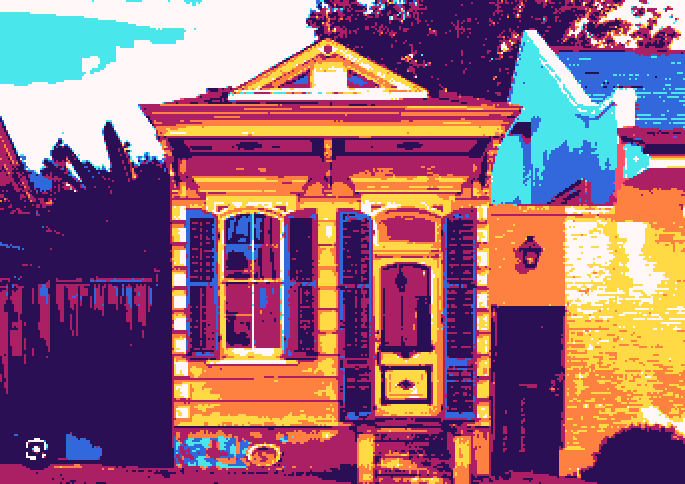
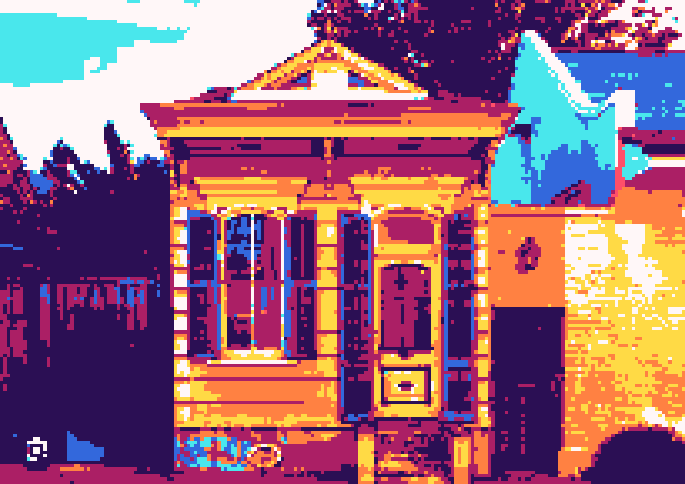
Added Title Screen

diff --git a/game.py b/game.py
@@ -21,22 +21,23 @@ FONT_PATH = r"assets/fonts/OldSchoolAdventures-42j9.ttf"
 CATEGORIES = ["Love Life", "Professional Development", "Family and Friends", "Health", "Personal Growth", "Gain Clarity"]
 
 class GameState(Enum):
-    OUTSIDE =1
-    INTRO = 2
-    SPREAD = 3
-    LOADING = 4
-    READING_INTRO = 5
-    READING_CARD_1 = 6
-    READING_CARD_2 = 7
-    READING_CARD_3 = 8
-    READING_SUMMARY = 9
+    TITLE = 1
+    OUTSIDE =2
+    INTRO = 3
+    SPREAD = 4
+    LOADING = 5
+    READING_INTRO = 6
+    READING_CARD_1 = 7
+    READING_CARD_2 = 8
+    READING_CARD_3 = 9
+    READING_SUMMARY = 10
 
 class TarotGame(arcade.Window):
     """ Main application class. """
 
     def __init__(self):
         super().__init__(SCREEN_WIDTH, SCREEN_HEIGHT, "Voodoo Tarot GPT")
-        self.stage = GameState.OUTSIDE
+        self.stage = GameState.TITLE
 
         """ Variables for reading generation"""
 
@@ -58,7 +59,7 @@ class TarotGame(arcade.Window):
         """ Global Assets """
         self.background_image = arcade.load_texture(r"assets/original/TableClothbiggerHueShift1.png")
         self.outside_image = arcade.load_texture("assets/original/NolaHouse1.7.png")
-        arcade.set_background_color(arcade.color.IMPERIAL_PURPLE)
+        arcade.set_background_color(arcade.color.BLACK)
         pyglet.font.add_file(FONT_PATH)  # Load the font file
        
         """ Variables for Outside Animation"""
@@ -135,9 +136,11 @@ class TarotGame(arcade.Window):
         """ Render the screen. """
         self.clear()
 
-        if self.stage != GameState.OUTSIDE:
+        if self.stage not in [GameState.OUTSIDE, GameState.TITLE]:
             arcade.draw_lrwh_rectangle_textured(0,0, SCREEN_WIDTH, SCREEN_HEIGHT, self.background_image)
-        if self.stage == GameState.OUTSIDE:
+        if self.stage == GameState.TITLE:
+            draw_utility.draw_title_stage(self)
+        elif self.stage == GameState.OUTSIDE:
             # arcade.draw_lrwh_rectangle_textured(0,0, SCREEN_WIDTH, SCREEN_HEIGHT, self.outside_image)
             draw_utility.draw_outside_stage(self)
         elif self.stage == GameState.INTRO:
@@ -214,6 +217,12 @@ class TarotGame(arcade.Window):
         """ Update the game state. """
 
         TEXT.update_typing_effect(self, delta_time)
+
+        if self.stage == GameState.TITLE:
+            self.time_in_state += delta_time
+            if self.time_in_state > 13:
+                self.stage = GameState.OUTSIDE
+                self.time_in_state = 0.0
         
         if self.stage == GameState.OUTSIDE:
             self.time_in_state += delta_time

diff --git a/draw_utility.py b/draw_utility.py
@@ -18,8 +18,50 @@ INTRO_TEXT = (
 
 CATEGORIES = ["Love Life", "Professional Development", "Family and Friends", "Health", "Personal Growth", "Gain Clarity"]
 
+def draw_title_stage(game):
+    dev_title = arcade.load_texture("assets\original\KandD1.png")
+    game_title = arcade.load_texture("assets/original/TitleScreen1.png")
+    
+
+    fade_duration = 1.5
+    hold_time = 4
+
+    if game.time_in_state < hold_time:
+        alpha_1 = 255  # Fully visible
+    elif hold_time <= game.time_in_state < hold_time + fade_duration:
+        alpha_1 = int(255 * (1 - (game.time_in_state - hold_time) / fade_duration))  # Fading out
+    else:
+        alpha_1 = 0  # Fully invisible
+
+    # Image 2: Game Title Screen
+    if game.time_in_state < hold_time + fade_duration:
+        alpha_2 = 0  # Not visible at first
+    elif hold_time + fade_duration <= game.time_in_state < 2 * hold_time:
+        alpha_2 = int(255 * ((game.time_in_state - (hold_time + fade_duration)) / fade_duration))  # Fading in
+    elif 2 * hold_time <= game.time_in_state < 2 * hold_time + fade_duration:
+        alpha_2 = 255  # Fully visible for hold time
+    elif 2 * hold_time + fade_duration <= game.time_in_state < 2 * hold_time + 2 * fade_duration:
+        alpha_2 = int(255 * (1 - (game.time_in_state - (2 * hold_time + fade_duration)) / fade_duration))  # Fading out
+    else:
+        alpha_2 = 0  # Fully invisible
+
+    # Image 3: dummy house
+    if game.time_in_state < 2 * hold_time + 2 * fade_duration:
+        alpha_3 = 0  # Not visible initially
+    elif 2 * hold_time + 2 * fade_duration <= game.time_in_state < 3 * hold_time + 2 * fade_duration:
+        alpha_3 = int(255 * ((game.time_in_state - (2 * hold_time + 2 * fade_duration)) / fade_duration))  # Fading in
+    else:
+        alpha_3 = 255  # Fully visible
+
+    alpha_1 = max(0, min(255, alpha_1))
+    alpha_2 = max(0, min(255, alpha_2))
+    alpha_3 = max(0, min(255, alpha_3))
 
 
+    # Draw images with calculated alpha values
+    arcade.draw_lrwh_rectangle_textured(0, 0, SCREEN_WIDTH, SCREEN_HEIGHT, dev_title, alpha=alpha_1)
+    arcade.draw_lrwh_rectangle_textured(0, 0, SCREEN_WIDTH, SCREEN_HEIGHT, game_title, alpha=alpha_2)
+    arcade.draw_lrwh_rectangle_textured(0, 0, SCREEN_WIDTH, SCREEN_HEIGHT, game.outside_frame_center, alpha=alpha_3)
 def draw_outside_stage(game):
 
     current_state = game.states[game.state_index]

diff --git a/pixelate.py b/pixelate.py
@@ -17,7 +17,7 @@ CUSTOM_PALETTE = [
 ]
 
 # Block size 25 => scale factor = 0.25
-BLOCK_SIZE = 50
+BLOCK_SIZE = 30
 SCALE_FACTOR = BLOCK_SIZE * 0.01  # = 0.25
 
 # -------------------------

diff --git a/readme.md b/readme.md
@@ -10,11 +10,10 @@ Tarot Card Arcade game using python arcade and chatgpt
 
 
 # Resources
-* Art from [chee-seekins](https://chee-seekins.itch.io/tarot) - note, files not in git. commercial use, no distribution 
+* CardArt base from [chee-seekins](https://chee-seekins.itch.io/tarot) - note, files not in git. commercial use, no distribution 
 * Click sfx from [jarzarr](https://jarzarr.itch.io/ui-button-sounds) - commercial use, distribution
 * Music from [alkarab](https://alkakrab.itch.io/free-12-tracks-pixel-rpg-game-music-pack) - commercial use, distribution
 * Card SfX from [jdshertbert](https://jdsherbert.itch.io/tabletop-games-sfx-pack) - commercial use, distribution
 * Door opening sound from (https://mixkit.co/free-sound-effects/doors/) - commercial use, distribution
 * Typerwriter Sfx from (https://mixkit.co/free-sound-effects/click/) - commercial use, Distrubution
-https://pixabay.com/sound-effects/search/breeze/
 * Wind Sfx from https://mixkit.co/free-sound-effects/wind/ - commercial use, distribution
